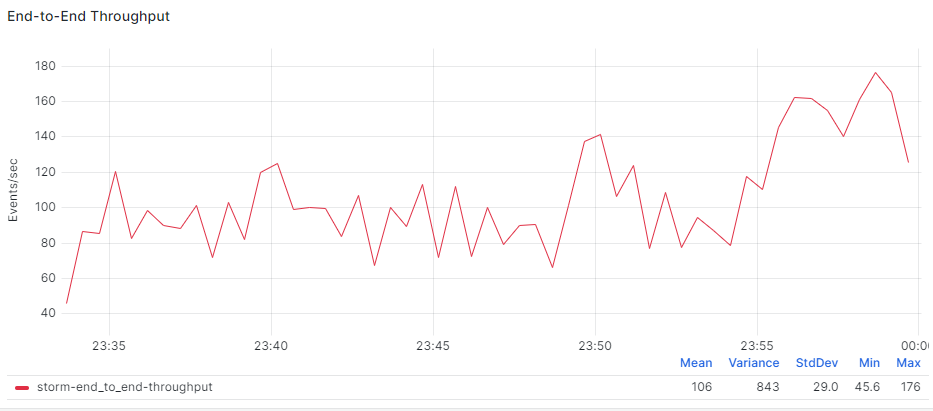
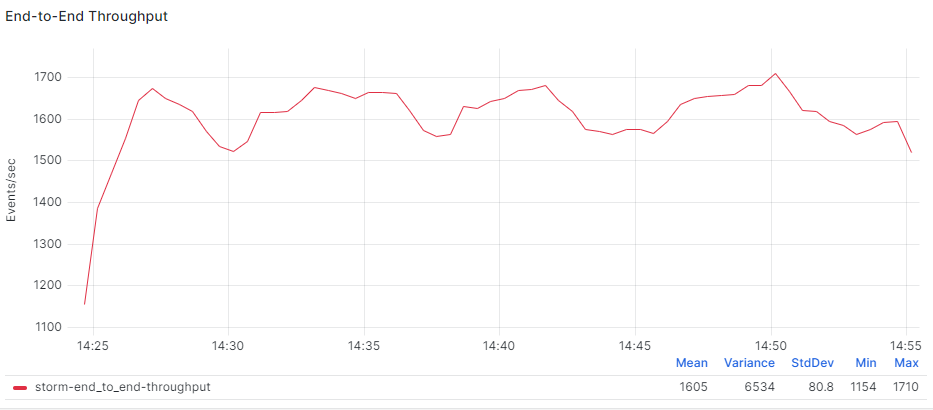
Updated Grafana graphs

diff --git a/StockMartketAppStorm/src/main/java/topology/KafkaTopology.java b/StockMartketAppStorm/src/main/java/topology/KafkaTopology.java
@@ -4,6 +4,7 @@ import bolt.WindowBolt;
 import domain.JsonEventDeserializer;
 import helper.KafkaRecordTranslator;
 import org.apache.kafka.clients.consumer.ConsumerConfig;
+import org.apache.kafka.clients.producer.ProducerConfig;
 import org.apache.kafka.common.serialization.StringDeserializer;
 import org.apache.kafka.common.serialization.StringSerializer;
 import org.apache.log4j.LogManager;
@@ -62,6 +63,8 @@ public class KafkaTopology {
         kafkaProps.put("acks", options.numOfAcks);
         kafkaProps.put("key.serializer", StringSerializer.class);
         kafkaProps.put("value.serializer", StringSerializer.class);
+        kafkaProps.put(ProducerConfig.LINGER_MS_CONFIG, 0);
+        kafkaProps.put(ProducerConfig.BATCH_SIZE_CONFIG, 500);
         //kafkaProps.put("value.serializer", JsonEventSerializer.class);
         KafkaBolt<String, String> kafkaBolt = new KafkaBoltCustom()
                 .withProducerProperties(kafkaProps)
@@ -97,11 +100,11 @@ public class KafkaTopology {
         config.setDebug(false);
        // config.setTopologyWorkerMaxHeapSize(1500);
         config.setNumAckers(2);
-        //config.setMaxSpoutPending(5000);
+        config.setMaxSpoutPending(10000);
 //        config.put(Config.TOPOLOGY_TRANSFER_BUFFER_SIZE, 32);
 //        config.put(Config.TOPOLOGY_TRANSFER_BATCH_SIZE, 1000);
         //config.put(Config.TOPOLOGY_BATCH_FLUSH_INTERVAL_MILLIS, 1000);
-        config.put(Config.TOPOLOGY_PRODUCER_BATCH_SIZE, 1000);
+        config.put(Config.TOPOLOGY_PRODUCER_BATCH_SIZE, 100);
         config.put(Config.TOPOLOGY_EXECUTOR_RECEIVE_BUFFER_SIZE, 131072);
 //        int topology_executor_receive_buffer_size = 32768; // intra-worker messaging, default: 32768
 //        int topology_transfer_buffer_size = 2048; // inter-worker messaging, default: 1000

diff --git a/StockMarketAppFlink/src/main/java/job/DataStreamJob.java b/StockMarketAppFlink/src/main/java/job/DataStreamJob.java
@@ -72,13 +72,11 @@ public class DataStreamJob {
                         .setKeySerializationSchema(new SimpleStringSchema())
                         .build()
                 )
-                .setProperty(ProducerConfig.BATCH_SIZE_CONFIG, "150000")
-                .setProperty(ProducerConfig.LINGER_MS_CONFIG, "20")
-                .setProperty(ProducerConfig.COMPRESSION_TYPE_CONFIG, "lz4")
+//                .setProperty(ProducerConfig.BATCH_SIZE_CONFIG, "150000")
+//                .setProperty(ProducerConfig.LINGER_MS_CONFIG, "20")
+//                .setProperty(ProducerConfig.COMPRESSION_TYPE_CONFIG, "lz4")
                 .setDeliveryGuarantee(DeliveryGuarantee.AT_LEAST_ONCE)
                 .build();
-
-
 
         DataStream<Event> events = environment
                 .fromSource(
@@ -99,7 +97,7 @@ public class DataStreamJob {
                 .setParallelism(options.windowParallelism)
                 //.map(objectMapper::writeValueAsString)
                 .map(new CustomRichMapper())
-                .setParallelism(options.kafkaSourceParallelism);
+                .setParallelism(options.windowParallelism);
 
 
         processedEvents.sinkTo(kafkaSink).setParallelism(options.kafkaSinkParallelism);

diff --git a/StockProducer/src/main/java/org/example/StockEventsKafkaProducer.java b/StockProducer/src/main/java/org/example/StockEventsKafkaProducer.java
@@ -205,7 +205,6 @@ public class StockEventsKafkaProducer {
 //        Gauge<Double> gauge2 = throughput::get;
 //        registry.register("gauge_flink_throughput", gauge2);
 
-
         new Thread(() -> {
             // Create a metric registry
             MetricRegistry registry = new MetricRegistry();
@@ -230,7 +229,7 @@ public class StockEventsKafkaProducer {
             registry.register("histogram_flink_latency", histogram);
             try {
                 while (true) {
-                    ConsumerRecords<String, String> records = kafkaConsumer.poll(Duration.ofMillis(1000));
+                    ConsumerRecords<String, String> records = kafkaConsumer.poll(Duration.ofMillis(0));
                     meter.mark(records.count());
 //                    int latencySizeLocal = latencySize.get();
 //                    float latencyAverage = latency.get();
